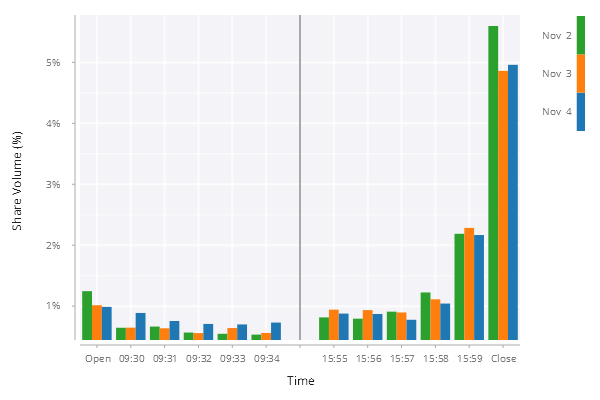
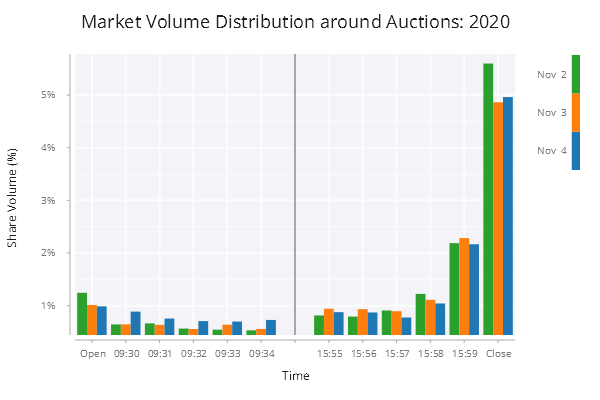
Update example

diff --git a/docs/examples/ex001.md b/docs/examples/ex001.md
@@ -2,6 +2,10 @@
 
 In this example, we are going to create a bar chart to show and constrast the equities volume distribution around open and close auctions before, on and after the presidential election days in the United States in 2016 and 2020. The final chart looks like below:
 
+<span style="display:block;text-align:center">
+![Final Chart](../assets/img/ex001.f11.png)
+</span>
+
 ## Data
 The table ``.ex001.data`` has the following schema:
 
@@ -27,6 +31,7 @@ date       time  volpct
 Let's create a bar chart. Note that ``date`` has a *date* type and ``time`` is of type *minute* which is continuous type.
 
 ```q
+// .ex001.f01
 t:select from .ex001.data where date=2020.11.03;
 .qp.go[600;400;] .qp.bar[t;`time;`volpct;::]
 ```
@@ -40,6 +45,7 @@ The above vanilla code creates a basic bar chart using data from November 3, 202
 One immediate problem with the chart above is that the bars are clustered at the two sides of the chart because the dataset only contains the data around open auction at 09:30 and close auction at 16:00. This leaves a huge empty space between the two clusters and make the chart really hard to read.
 
 ## Step 2
+// .ex001.f02
 One way to get rid of the empty space is to convert the ``time`` column from type *minute* to a categorical type like *string* or *symbol*. Let's modify the code slightly by converting the ``time`` into a *symbol* type:
 
 ```q
@@ -55,6 +61,7 @@ With this change in place, the bar chart looks much better.
 </span>
 
 ## Step 3
+// .ex001.f03
 By default, the column names are used as the axis labels. In our example, meaning of the ``y`` axis label ``volpct`` is not very obvious. In this step, I will show how to customize the axis labels. We use ``.qp.s.labels`` to customize the appreance of labels. Note that we use ``.qp.bar[t;`time;`volpct;]`` as a function projection.
 
 ```q
@@ -75,6 +82,7 @@ Now the bar chart looks like this:
 The values on the ``y`` axis is actually percentage, *i.e.* 0.02 means 2%. It looks nicer if the tick values on the ``y`` axis are rendered as percentage by adding a percent sign in string format. The function ``.qp.s.scale`` will do the trick.
 
 ```q
+// .ex001.f04
 t:select from .ex001.data where date=2020.11.03;
 t:update `$string time from t;
 yfmt:{`$string[floor 0.5+100*x],"%"};
@@ -94,6 +102,7 @@ A function ``yfmt`` is defined to format a float number as percentage.
 To make the volume bars more distinguishable between volume around open auction and volume around close auction, we can add a veritical divider to clearly separate the two clusters.
 
 ```q
+// .ex001.f05
 t:select from .ex001.data where date=2020.11.03;
 t:update `$string time from t;
 yfmt:{`$string[floor 0.5+100*x],"%"};
@@ -121,6 +130,7 @@ We have two problems with the tick labels on the x-axis:
 Let's fix that.
 
 ```q
+// .ex001.f06
 t:select from .ex001.data where date=2020.11.03;
 t:update `$string time from t;
 xfmt:{$[-17h=type x;`;x=`$"09:29";`Open;x=`$"16:00";`Close;x]};
@@ -146,6 +156,7 @@ After a x-axis tick formatter is added, the bar chart looks much better.
 A sharp-eyed reader may notice that there is a trailing comma in y-axis label and the x-axis label changes from "Time" to "Time, x" after the bar and vertical line are stacked on top of each other. This does not look good. Let's see how that can be fixed.
 
 ```q
+// .ex001.f07
 t:select from .ex001.data where date=2020.11.03;
 t:update `$string time from t;
 xfmt:{$[-17h=type x;`;x=`$"09:29";`Open;x=`$"16:00";`Close;x]};
@@ -170,6 +181,7 @@ yfmt:{`$string[floor 0.5+100*x],"%"};
 So far, we have finished a nice-looking bar chart using data from a single day. How about plotting data from multiple days on the same chart? One way it is to dodge the overlapping bars side-to-side. Let's try putting the data for the three days around 2020 presidential election together in one single bar chart.
 
 ```q
+// .ex001.f08
 t:select from .ex001.data where 2020=`year$date;
 t:update `$string time from t;
 xfmt:{$[-17h=type x;`;x=`$"09:29";`Open;x=`$"16:00";`Close;x]};
@@ -188,6 +200,7 @@ yfmt:{`$string[floor 0.5+100*x],"%"};
     )
 ```
 The chart below has three days of data, but there are a few problems with it:
+
 - The label for the legend is only partially shown
 - The color of the legend is a gradient from a color spectrum. It is not easy to distinguish them.
 
@@ -199,6 +212,7 @@ The chart below has three days of data, but there are a few problems with it:
 Let's fix the two issues from the previous step by converting ``date`` into a categorical type. Note that ``.qdate.print`` is used to format a date. For additional details on the data parsing functions, see [Date Parsing][DateParser].
 
 ```q
+// .ex001.f09
 t:select from .ex001.data where 2020=`year$date;
 t:update .qdate.print["%b %e";] each date,`$string time from t;
 xfmt:{$[-17h=type x;`;x=`$"09:29";`Open;x=`$"16:00";`Close;x]};
@@ -224,10 +238,61 @@ With the changes above, the color looks nicer and the legend label is clear and 
 </span>
 
 ## Step 10
+In this step, I will make two more updates to the bar chart:
+
+- Remove the ``date`` in the legend title
+- Add a chart title
+
+```q
+// .ex001.f10
+t:select from .ex001.data where 2020=`year$date;
+t:update .qdate.print["%b %e";] each date,`$string time from t;
+xfmt:{$[-17h=type x;`;x=`$"09:29";`Open;x=`$"16:00";`Close;x]};
+yfmt:{`$string[floor 0.5+100*x],"%"};
+ll:reverse exec distinct date from t; / legend label
+
+.qp.go[600;400;]
+  .qp.title["Market Volume Distribution around Auctions: 2020"]
+  .qp.theme[`legend_header_background_fill`legend_padding_top!(`white;-20)]
+  .qp.stack (
+    .qp.bar[t;`time;`volpct;]
+       .qp.s.geom[``position!(::;`dodge)]
+      ,.qp.s.aes[`fill`group;`date`date]
+      ,.qp.s.theme[``legend_use!(::;0b)]
+      ,.qp.s.labels[`x`y!(`Time;`$"Share Volume (%)")]
+      ,.qp.s.scale[`x;.gg.scale.format[xfmt;.gg.scale.categorical[]]]
+      ,.qp.s.scale[`y;.gg.scale.format[yfmt;.gg.scale.linear]];
+    .qp.vline[12:00;]
+       .qp.s.labels[`x`y!(`Time;`$"Share Volume (%)")]
+      ,.qp.s.legend["";ll!count[ll]#.gg.colour.cat10]
+    )
+```
 
 <span style="display:block;text-align:center">
 ![Step 10](../assets/img/ex001.f10.png)
 </span>
 
+## Step 11
+
+```q
+// .ex001.f11
+.qp.go[600;600;]
+  .qp.vertical(
+    .ex001.f10 2016;
+    .ex001.f10 2020
+    )
+```
+
+<span style="display:block;text-align:center">
+![Step 11](../assets/img/ex001.f11.png)
+</span>
+
+## Step 12
+
+## Variations
+
+### Legend title
+### Same y-axis
+### Color of the divider
 
 [DateParser]: https://code.kx.com/developer/libraries/date-parser/
